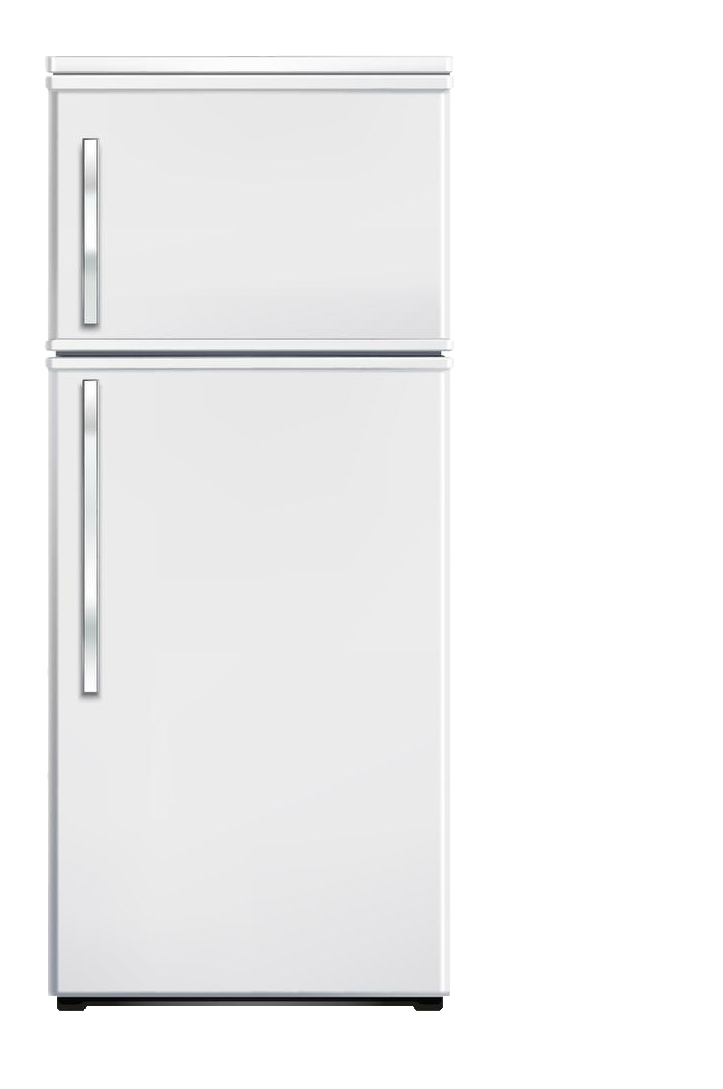
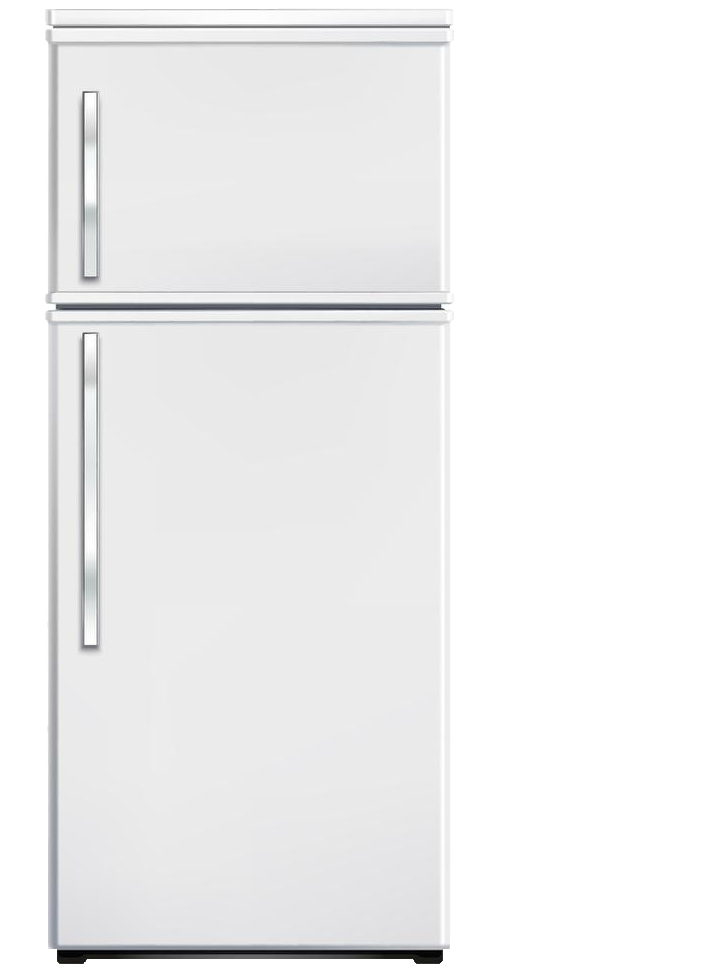
Début du CSS et modifs pour codage responsive

diff --git a/CodeFrigo/index.html b/CodeFrigo/index.html
@@ -5,27 +5,39 @@
     <title>Mini projet Frigo partagé</title>
     <link rel="shortcut icon" type="image/x-icon" href="Images/iconeFrigo.jpg" />
     <meta name="description" content="frigo partagé" />
+    <!-- balise meta pour un codage responsive -->
+    <meta name="viewport" content="width=device-width, initial-scale=1.0">
     <link rel="stylesheet" type="text/css" href="style.css" media="all" />
   </head>
   <body>
-  <h1>Bienvenue en cuisine !</h1>
-    <img src="Images/FrigoFerme.png" alt="frigo fermé" id="frigo">
-    <div>
-      <h2>Dans votre frigo :</h2>
-      <div>
-        <h3>Rechercher un article :</h3>
-        <label for="rechercher"></label><input type="text" name="recherche" id="recherche" />
-        <button id="boutonRechercher" name="Rechercher">Rechercher</button>
-        <ul id="resultatRecherche"></ul>
+    <div class="header">
+      <h1>Bienvenue en cuisine !</h1>
+    </div>
+
+    <div class="row">
+      <div class="col-8 frigo">
+        <img src="Images/FrigoFerme.png" alt="frigo fermé" id="imageFrigo">
       </div>
-      <ul id="mesArticles"></ul>
-      <div>
-        <h3>Ajouter un article :</h3>
-        <label for="article"></label><input type="text" name="newArticle" id="newArticle" required=true />
-        <label for="quantite"></label><input type="text" name="quantite" id="quantite" />
-        <button id="ajouterArticle" name="ajouterArticle">Ajouter au frigo</button>
+
+      <div class="col-4 contenuFrigo">
+        <h2>Dans votre frigo :</h2>
+        <div class="rechercheArticle">
+          <h3>Rechercher un article :</h3>
+          <label for="rechercher"></label><input type="text" name="recherche" id="recherche" />
+          <button id="boutonRechercher" name="Rechercher">Rechercher</button>
+          <ul id="resultatRecherche"></ul>
+        </div>
+        <ul id="mesArticles"></ul>
+        <div class="ajoutArticle">
+          <h3>Ajouter un article :</h3>
+          <label for="article"></label><input type="text" name="newArticle" id="newArticle" required=true />
+          <label for="quantite"></label><input type="text" name="quantite" id="quantite" />
+          <button id="ajouterArticle" name="ajouterArticle">Ajouter au frigo</button>
+        </div>
       </div>
     </div>
+
     <script src="frigo.js"></script>
+
   </body>
 </html>

diff --git a/CodeFrigo/frigo.js b/CodeFrigo/frigo.js
@@ -1,11 +1,12 @@
-document.getElementById("frigo").addEventListener("click", ouvreFrigo);
+document.getElementById("imageFrigo").addEventListener("click", ouvreFrigo);
 
 //Fonction de changement d'image au clic
 //Permet de passer d'un frigo fermé à un frigo ouvert
 function ouvreFrigo() {
-    let imageActuelle = document.getElementById("frigo");
+    let imageActuelle = document.getElementById("imageFrigo");
     if(imageActuelle.src.match("Images/FrigoFerme.png")){
         imageActuelle.src = "Images/FrigoOuvert.png";
+        listeMesArticles();
     }
     else {
         imageActuelle.src = "Images/FrigoFerme.png";
@@ -39,7 +40,6 @@ function nouveauProduit(){
         .catch( (error) => console.log(error));
 }
 
-document.getElementById("frigo").addEventListener("click", listeMesArticles);
 
 //Fonction permettant d'afficher la liste des articles enregistrés dans l'API
 function listeMesArticles(){

diff --git a/CodeFrigo/style.css b/CodeFrigo/style.css
@@ -1,0 +1,43 @@
+* {
+    box-sizing: border-box;
+}
+
+body{
+    font-size: 1em;
+    font-family: "Arial", "Helvetica", "sans-serif";
+}
+
+.row::after {
+    content: "";
+    clear: both;
+    display: table;
+}
+
+[class*="col-"] {
+    float: left;
+    padding: 15px;
+}
+
+.col-1 {width: 8.33%;}
+.col-2 {width: 16.66%;}
+.col-3 {width: 25%;}
+.col-4 {width: 33.33%;}
+.col-5 {width: 41.66%;}
+.col-6 {width: 50%;}
+.col-7 {width: 58.33%;}
+.col-8 {width: 66.66%;}
+.col-9 {width: 75%;}
+.col-10 {width: 83.33%;}
+.col-11 {width: 91.66%;}
+.col-12 {width: 100%;}
+
+.header {
+    color: red;
+    padding: 15px;
+}
+
+#imageFrigo {
+    max-width: 100%;
+    max-height: 80vh;
+    height: auto;
+}
